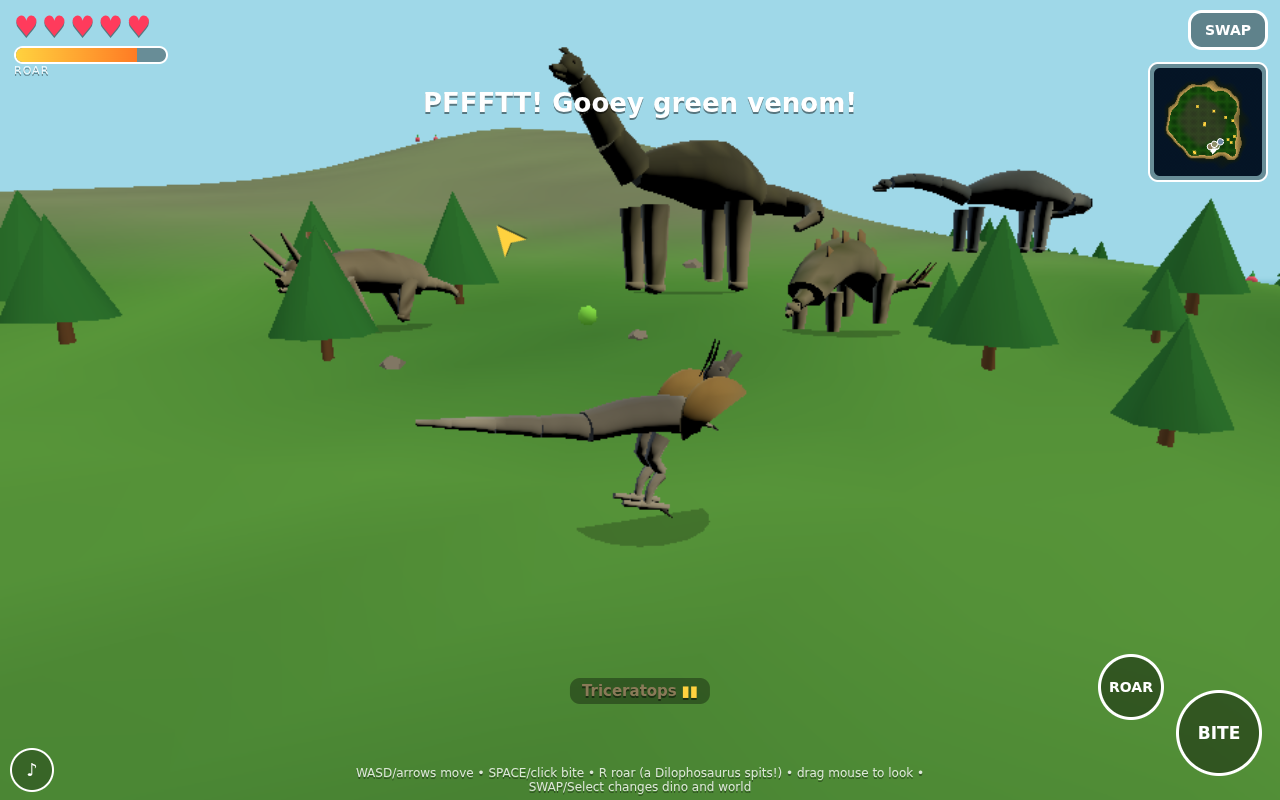
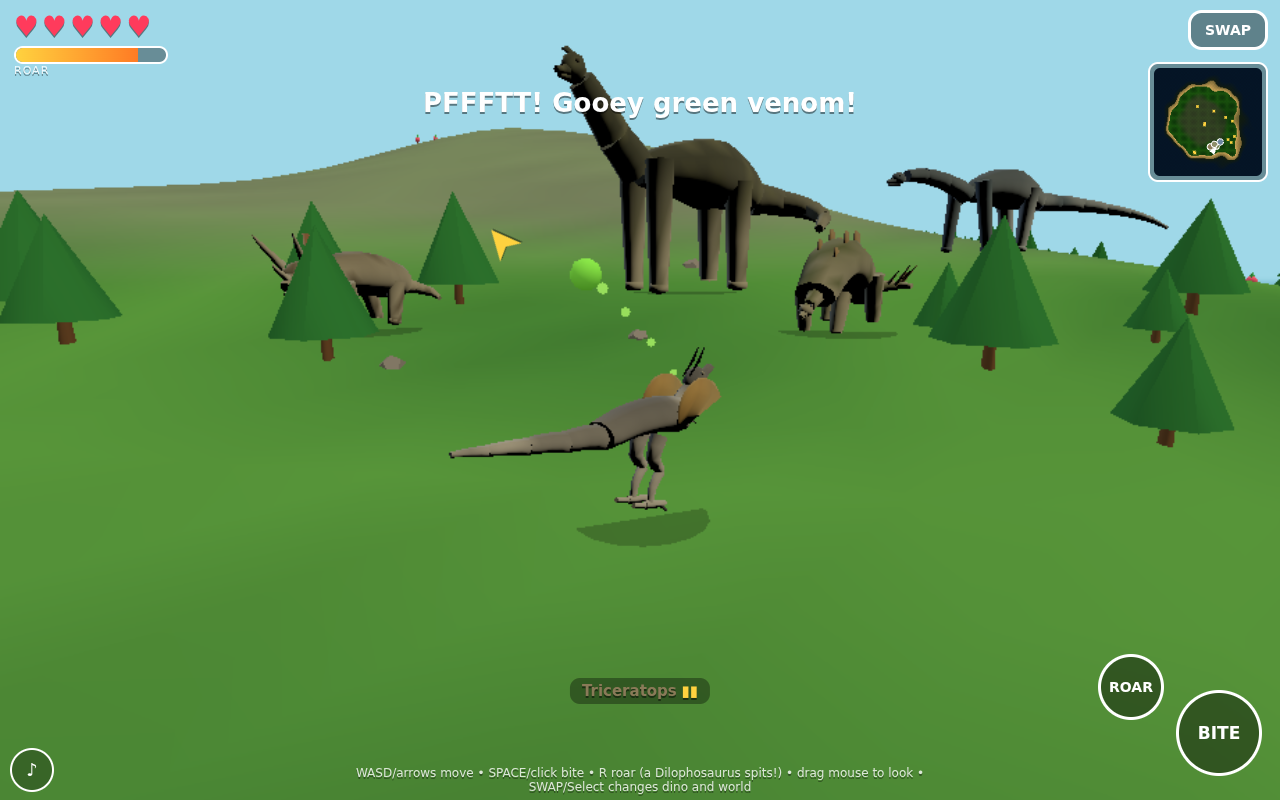
Dino Brawl 3D: fix the new dinosaurs - legs on the body, stomp the right way, venom you can see
The sauropods were built with their hip joints below the belly, so the Brachiosaurus
and Diplodocus walked around with four pillars floating under a loaf. The asset
factory now places the hips from where the body shell actually is (a quarter of the
way into the flank), and refuses to build a dinosaur whose legs do not reach the
body or whose feet do not reach the ground, so this cannot ship again.

The giants' stomp rotated the fore legs about the wrong axis, swinging them out to
the side like a drunk windscreen wiper; they now lift up and forward and the chest
dips as the foot comes down.

The Dilophosaurus spit was easy to miss and often did nothing at all: it needed a
target within 17 m and otherwise refused. Now the ROAR button always spits - at the
nearest dinosaur out to 22 m, or forward into the air if nobody is near - the glob
is bigger, arcs slower and leaves a streak of droplets so you can watch it fly, the
arc is solved to land on the target, and pressing it with an empty venom bar says so
instead of sitting there silently.

Adds examples/dinobrawl-3d/verify.mjs: a smoke and regression run that boots the game
like a player on desktop and a phone and checks the twelve rigs (outward shells, legs
that attach), the stomp direction, the venom (always spits, visible trail, poisons)
and the one-press island-plus-dinosaur menu, with no console errors.

diff --git a/examples/dinobrawl-3d/index.html b/examples/dinobrawl-3d/index.html
@@ -867,10 +867,10 @@ function poseChar(ch,dt){
       if(J.neck)J.neck.rotation.z=0.30;
     }
     let stompLift=0;
-    if(ch.stompT>0&&J.legFR){                          // Brachiosaurus: foot up, then down hard
+    if(ch.stompT>0&&J.legFR){                          // giants: one fore foot up and forward, then down hard
       const u=clamp(1-ch.stompT/0.5,0,1);
       stompLift=u<0.45?easeOut(u/0.45):1-easeOut((u-0.45)/0.55);
-      J.legFR.rotation.x=-1.05*stompLift;J.legFL.rotation.x=-0.85*stompLift;
+      J.legFR.rotation.z+=1.25*stompLift;J.legFL.rotation.z+=0.45*stompLift;   // rotation.z swings a foreleg fore/aft
     }
     if(ch.spinT>0&&ch.tail.length){                    // the whole tail sweeps a full circle
       const u=clamp(1-ch.spinT/0.66,0,1),a=easeOut(u)*Math.PI*2;
@@ -882,8 +882,8 @@ function poseChar(ch,dt){
     }
     if(J.head){J.head.rotation.y=headY;J.head.rotation.z=headZ;}
     M.rotation.z=-0.01+Math.sin(p)*0.012*(moving?1:0.3)+flashK*2+(hurtK?Math.sin(ch.hurtT*50)*0.04:0)
-                 -(ch.spinT>0?0.04:0);
-    M.rotation.x=ch.stompT>0?-0.06*stompLift:0;
+                 -(ch.spinT>0?0.04:0)+0.07*stompLift;      // chest dips as the foot comes down
+    M.rotation.x=0;
     M.position.y=(hurtK?Math.sin(ch.hurtT*40)*0.03:0)+0.12*stompLift;   // rises as the foot lifts, drops as it lands
     const bs=1+breath*0.010*(moving?0.3:1)+roarK*0.025;
     M.scale.set(s*(1+(bs-1)*0.5),s*bs,s*(1+(bs-1)*0.7));
@@ -1370,18 +1370,25 @@ function goreHit(e){                                        // Triceratops ends 
 }
 
 /* ===================== venom spit (Dilophosaurus) ======================
-   The ROAR button is this dinosaur's move: a gooey green glob that arcs out
-   and poisons whatever it lands on — slowed, green and much less keen on you */
-const venom=[];
-const spitG=new THREE.SphereGeometry(0.28,7,5);
+   The ROAR button is this dinosaur's move: a fat green glob of goo that arcs out
+   and poisons whatever it lands on — slowed, green and much less keen on you.
+   It is big and slow on purpose, with a streak of droplets behind it, so small
+   players can see it fly; and it always spits, even at nothing.               */
+const venom=[],goo=[];
+let lastVenom=null;                                     // why the last glob went away (debug + tests)
+const spitG=new THREE.SphereGeometry(0.44,9,6);
+const spitM=new THREE.MeshLambertMaterial({color:0x7fd44a,emissive:0x3f7a1c});
+const gooG=new THREE.SphereGeometry(0.17,6,4);
+const gooM=new THREE.MeshBasicMaterial({color:0xa6ee63,transparent:true,opacity:0.85,depthWrite:false});
 function spit(ch,target){
   const s=ch.sp.scale,mv=ch.sp.kind==='quad'?2.6:2.3;
   const ox=ch.x+Math.cos(ch.yaw)*1.9*s, oz=ch.z-Math.sin(ch.yaw)*1.9*s, oy=ch.y+mv*s;
-  const m=new THREE.Mesh(spitG,new THREE.MeshLambertMaterial({color:0x7fd44a,emissive:0x2c5c14}));
+  const m=new THREE.Mesh(spitG,spitM);
   m.position.set(ox,oy,oz);scene.add(m);
-  const d=Math.hypot(target.x-ch.x,target.z-ch.z)||1,tt=clamp(d/20,0.18,0.95);
-  venom.push({m,x:ox,y:oy,z:oz,vx:(target.x-ch.x)/tt,vy:(target.y+1.2-oy)/tt+5.2,
-    vz:(target.z-ch.z)/tt,t:0,from:ch});
+  const d=Math.hypot(target.x-ch.x,target.z-ch.z)||1,tt=clamp(d/10,0.35,1.1);
+  const ts=(target.sp&&target.sp.scale)||1,ty=target.y+1.45*ts,g=15;
+  venom.push({m,x:ox,y:oy,z:oz,vx:(target.x-ch.x)/tt,vy:(ty-oy+0.5*g*tt*tt)/tt,
+    vz:(target.z-ch.z)/tt,t:0,trail:0,from:ch});
   SFX.spit();flare(ch,1.0);startRoar(ch,0.42);
   return venom.length;
 }
@@ -1403,6 +1410,9 @@ function stepVenom(dt){
     v.t+=dt;v.vy-=15*dt;
     v.x+=v.vx*dt;v.y+=v.vy*dt;v.z+=v.vz*dt;
     v.m.position.set(v.x,v.y,v.z);v.m.rotation.x+=dt*7;
+    v.trail-=dt;                                       // a streak of droplets, so you can see it fly
+    if(v.trail<=0){v.trail=0.055;const g=new THREE.Mesh(gooG,gooM);
+      g.position.set(v.x,v.y,v.z);scene.add(g);goo.push({m:g,t:0.45});}
     let hit=false;
     if(v.from.isPlayer){
       for(const e of enemies){if(!e.alive)continue;
@@ -1414,10 +1424,16 @@ function stepVenom(dt){
       if(Math.hypot(player.x-v.x,player.z-v.z)<rr&&Math.abs(player.y+player.sp.scale*1.8-v.y)<2.6+player.sp.scale){
         poison(player);hit=true;}
     }
-    if(hit||v.t>1.7||v.y<terrainH(v.x,v.z)){
+    if(hit||v.t>1.9||v.y<terrainH(v.x,v.z)){
+      lastVenom={hit,t:+v.t.toFixed(2),y:+v.y.toFixed(2),g:+terrainH(v.x,v.z).toFixed(2),
+        x:+v.x.toFixed(2),z:+v.z.toFixed(2),
+        near:enemies.filter(e=>e.alive).map(e=>[e.key,+Math.hypot(e.x-v.x,e.z-v.z).toFixed(1)]).sort((a,b)=>a[1]-b[1])[0]};
       splat(v.x,Math.max(v.y,terrainH(v.x,v.z)),v.z);
       scene.remove(v.m);venom.splice(i,1);}
   }
+  for(let i=goo.length-1;i>=0;i--){const q=goo[i];q.t-=dt;    // the droplets shrink out
+    if(q.t<=0){scene.remove(q.m);goo.splice(i,1);continue;}
+    q.m.scale.setScalar(0.35+1.5*q.t);}
 }
 function hurt(ch,dmg,fromX,fromZ){
   if(!ch.alive)return;
@@ -1617,17 +1633,20 @@ function playerBite(){
 function playerRoar(){
   if(!player.alive||roarCd>0)return;
   if(player.sp.venom){                                  // for a Dilophosaurus the roar IS a venom spit
-    if(roarGauge<0.2)return;
-    let best=null,bd=17;
+    if(roarGauge<0.2){toast('PFFFT... not enough venom yet — land some bites to fill the bar!');return;}
+    let best=null,bd=22;
     for(const e of enemies){if(!e.alive)continue;
       const d=Math.hypot(e.x-player.x,e.z-player.z);if(d<bd){bd=d;best=e;}}
-    if(!best){toast('PFFFT! ...but there is nobody to spit at!');return;}
+    const fake=!best;
+    if(fake)best={x:player.x+Math.cos(player.yaw)*13,y:player.y-1.2,z:player.z-Math.sin(player.yaw)*13,
+      sp:{scale:1}};                                    // nobody near: it spits forward and splats anyway
     roarGauge=Math.max(0,roarGauge-0.2);roarCd=1.2;
-    player.yaw+=clamp(angDiff(Math.atan2(-(best.z-player.z),best.x-player.x),player.yaw),-0.5,0.5);
-    spit(player,best);toast('PFFFTT! Gooey green venom!');
+    player.yaw+=clamp(angDiff(Math.atan2(-(best.z-player.z),best.x-player.x),player.yaw),-0.9,0.9);
+    spit(player,best);
+    toast(fake?'PFFFT! Gooey green venom — SPLAT!':'PFFFTT! Gooey green venom!');
     return;
   }
-  if(roarGauge<0.35)return;
+  if(roarGauge<0.35){toast('The roar is still rumbling — hit something to fill the bar!');return;}
   roarGauge=0;roarCd=1.2;SFX.roar(player.key);startRoar(player,1.0);
   ripple(player.x,player.y+0.25,player.z);
   for(const e of enemies){
@@ -2361,6 +2380,34 @@ window.__probe={
     return{in:r.left>=0&&r.right<=innerWidth,left:Math.round(r.left),right:Math.round(r.right),
       width:Math.round(r.width)};},
   venomCount(){return venom.length;},
+  venomInfo(){return venom.map(v=>({x:+v.x.toFixed(2),y:+v.y.toFixed(2),z:+v.z.toFixed(2),t:+v.t.toFixed(2),
+    vx:+v.vx.toFixed(1),vy:+v.vy.toFixed(1),ground:+terrainH(v.x,v.z).toFixed(2),fromPlayer:!!v.from.isPlayer}));},
+  venomLast(){return lastVenom;},
+  gooCount(){return goo.length;},
+  limbCheck(which='player'){                              // do the legs actually reach the body?
+    const ch=which==='player'?player:enemies.find(e=>e.key===which);if(!ch)return null;
+    let body=null;const legs=[];
+    ch.model.traverse(o=>{if(!o.isMesh)return;
+      const g=o.geometry,bb=g.boundingBox||(g.computeBoundingBox(),g.boundingBox);
+      if(o.name==='bodym')body={bb,pos:g.attributes.position};
+      else if(/^legm|thighm/.test(o.name))legs.push({name:o.name,bb,pos:g.attributes.position});});
+    if(!body)return null;
+    const out=[];
+    for(const l of legs){
+      let sx=0,sz=0,n=0;
+      for(let i=0;i<l.pos.count;i++){sx+=l.pos.getX(i);sz+=l.pos.getZ(i);n++;}
+      const cx=sx/n,cz=sz/n;
+      let lo=Infinity,hi=-Infinity;
+      for(let i=0;i<body.pos.count;i++){
+        const x=body.pos.getX(i),y=body.pos.getY(i),z=body.pos.getZ(i);
+        if(Math.abs(x-cx)<0.55&&Math.abs(z-cz)<0.55){if(y<lo)lo=y;if(y>hi)hi=y;}
+      }
+      if(lo===Infinity)continue;
+      const want=lo+0.18*(hi-lo)-0.06;
+      out.push({leg:l.name,top:+l.bb.max.y.toFixed(2),need:+want.toFixed(2),
+        belly:+lo.toFixed(2),flank:+hi.toFixed(2),ok:l.bb.max.y>=want});
+    }
+    return out;},
   poisonOf(which='player'){const ch=which==='player'?player:enemies.find(e=>e.key===which);
     return ch?{t:+(ch.poisonT||0).toFixed(2),tint:ch.mats[0].color.getHex().toString(16)}:null;},
   moveOf(which='player'){const ch=which==='player'?player:enemies.find(e=>e.key===which);
